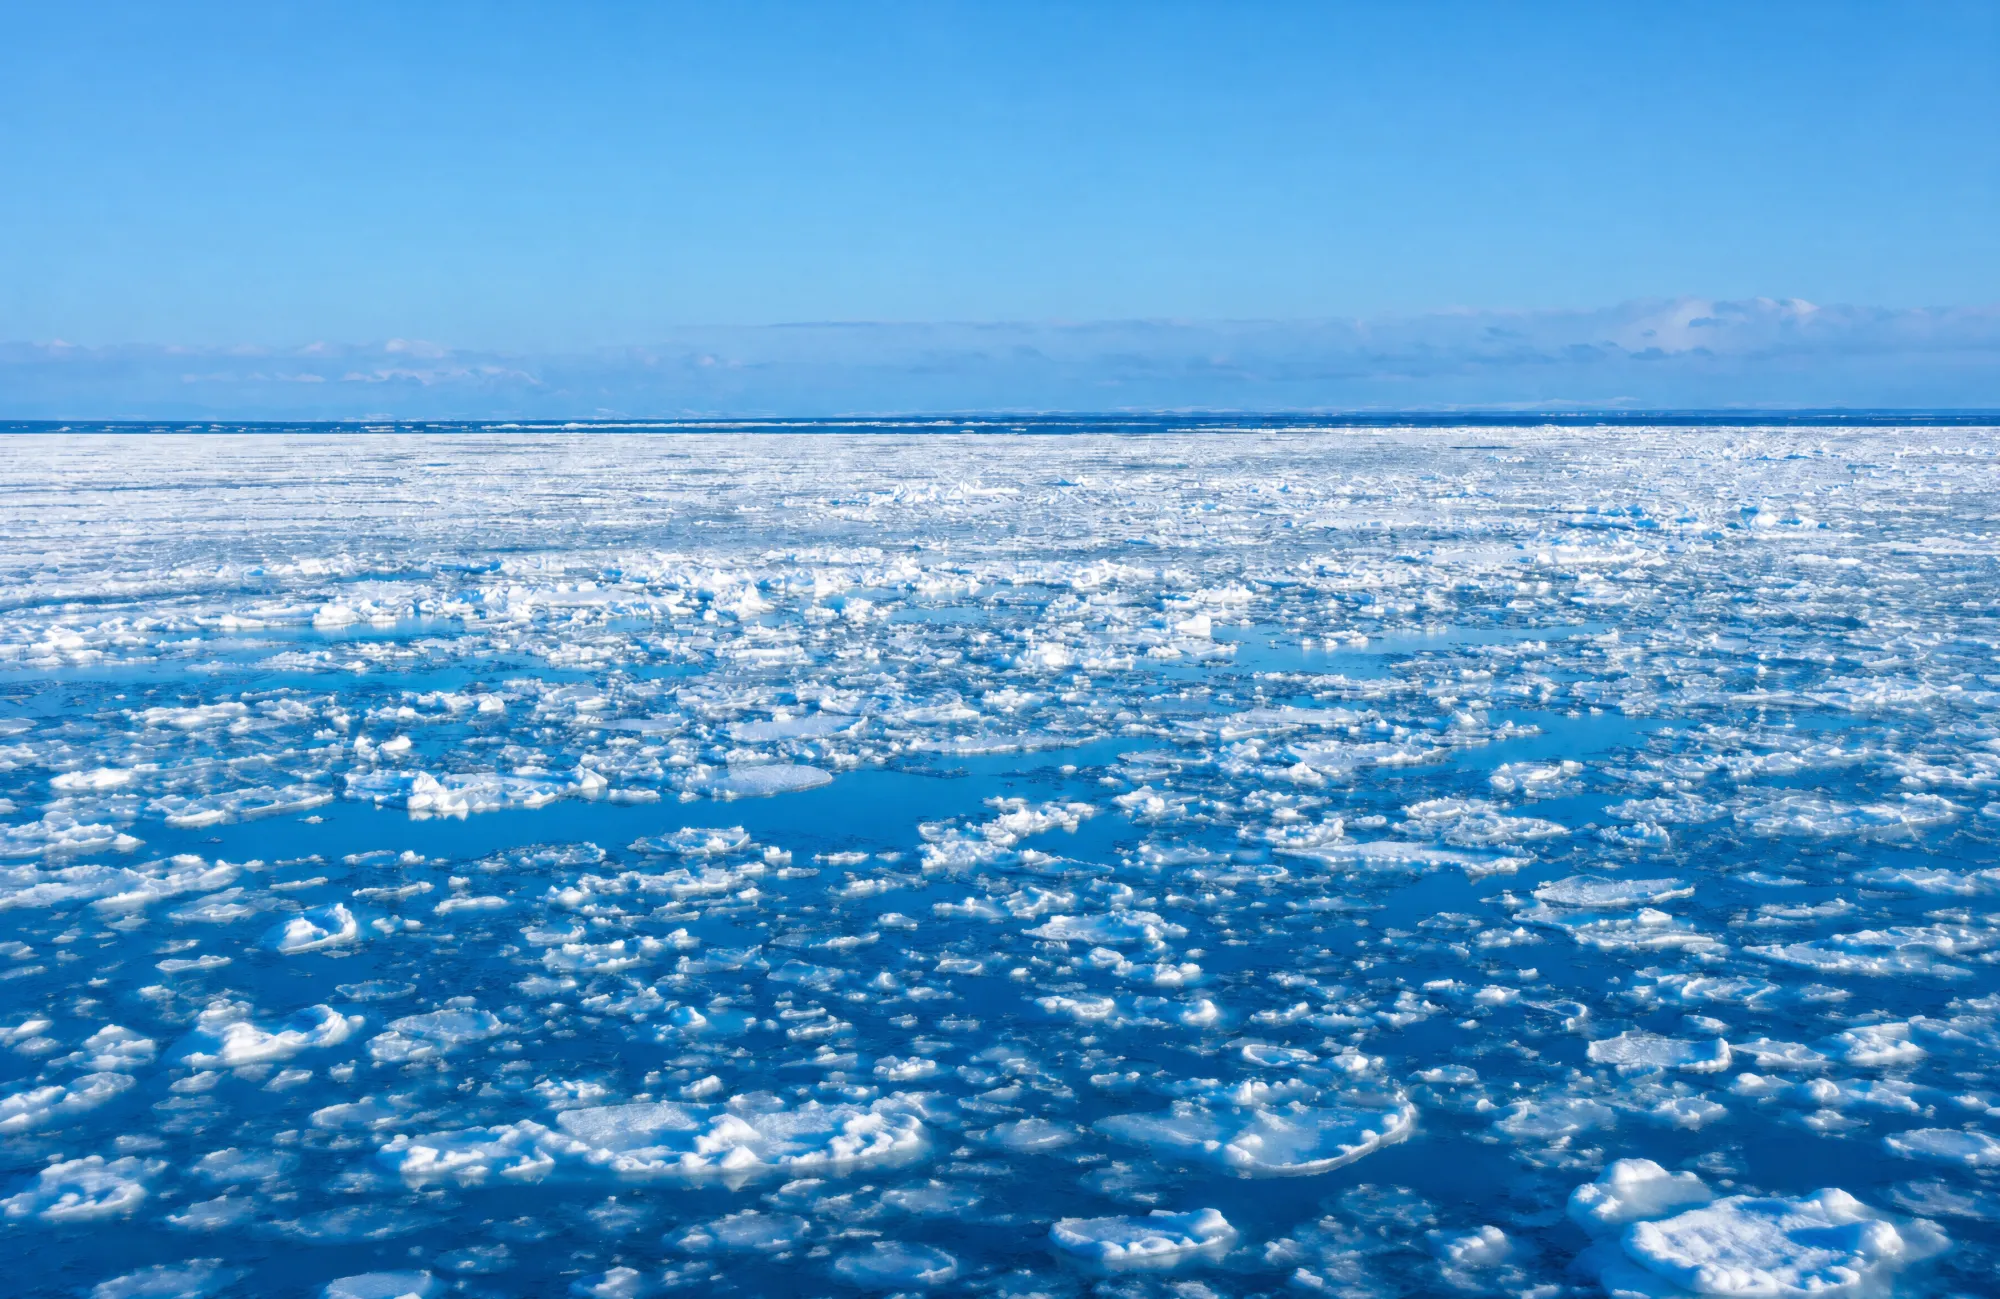
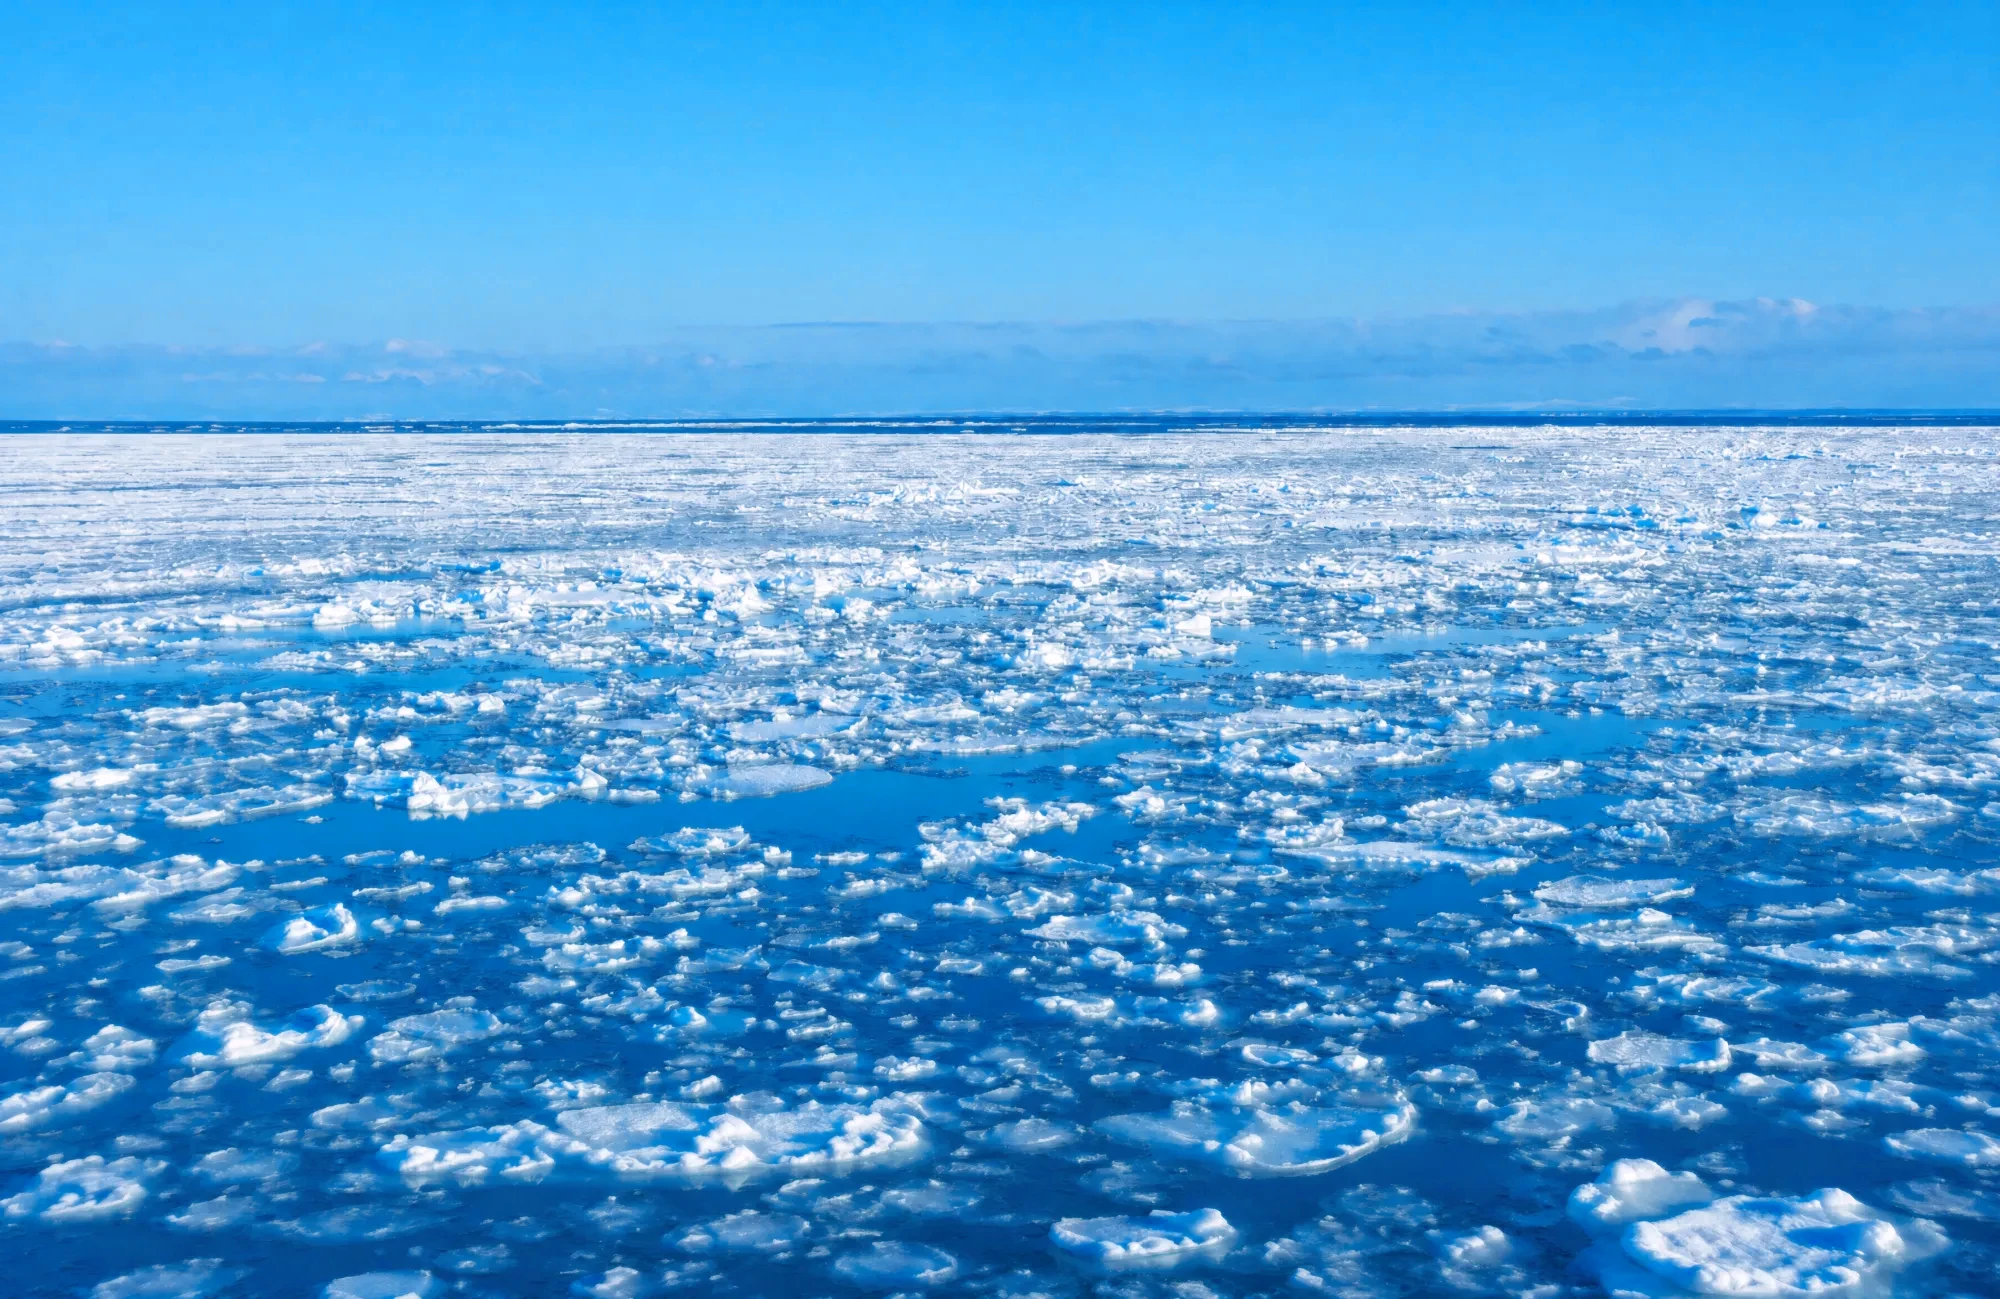
Auto-save

Changed region(s): [[0.0, 0.0, 1.0, 0.1848], [0.682, 0.3079, 1.0, 0.3387], [0.0, 0.2771, 0.093, 0.3387]]

diff --git a/abashiri/v3/components/SiteFooter.tsx b/abashiri/v3/components/SiteFooter.tsx
@@ -183,7 +183,7 @@ export const FADE_CURVES: Record<number, { name: string; note: string }> = {
    【同日 ヒデさん】パネルで 明るさ120%・影0%・影の高さ40% にして「これで変えてほしい。彩度の調整も」→ 案1 をその値にして既定に。sat＝彩度(%) */
 export const PHOTO_TONES: Record<number, { name: string; note: string; values: Record<string, number> }> = {
   0: { name: "前の暗いまま", note: "写真そのまま＋下半分に黒い影35%（2026-10-20 までの形）", values: { "footer.bright": 100, "footer.sat": 100, "footer.shade": 35, "footer.shadeH": 50, "footer.light": 0 } },
-  1: { name: "写真を明るく", note: "【既定・2026-10-20 ヒデさんの調整】写真の明るさ 120%・黒い影なし（0%）", values: { "footer.bright": 120, "footer.sat": 100, "footer.shade": 0, "footer.shadeH": 40, "footer.light": 0 } },
+  1: { name: "写真を明るく", note: "【既定】黒い影なし（0%）・写真の明るさ 100%（加工なし）。2026-10-21 写真そのものの色を元の写真に合わせたので、明るさのフィルターは外した（前は 120%）", values: { "footer.bright": 100, "footer.sat": 100, "footer.shade": 0, "footer.shadeH": 40, "footer.light": 0 } },
   2: { name: "影を海の青に", note: "下の影を黒ではなく深い海の青（Shadow_Base #005fb3）にする。暗くならずに青が深まり、文字も読める。写真も少し明るく（108%）", values: { "footer.bright": 108, "footer.sat": 100, "footer.shade": 40, "footer.shadeH": 50, "footer.light": 0 } },
   3: { name: "光を重ねる", note: "写真の上に、空の色の光（上 Brand_SkyBottom → 下 Brand_SkyTop）をスクリーンで重ねて、全体を明るく爽やかに。黒い影はごく薄く（12%）", values: { "footer.bright": 100, "footer.sat": 100, "footer.shade": 12, "footer.shadeH": 50, "footer.light": 35 } },
 };
@@ -297,7 +297,7 @@ function PhotoStage({
   /** 調整パネルから変えられる値（CSS変数）。
       高さとグラデはレイアウトに関わるので、変わった時だけ描き直す。
       curve＝グラデのパターン（FADE_CURVES の番号・2026-10-20） */
-  const [cfg, setCfg] = useState({ stageH: 120, fadeH: 72, solid: 0, padTop: 64, curve: 1, overlap: 400, tone: 1, bright: 120, sat: 100, shade: 0, shadeH: 40, light: 0 });
+  const [cfg, setCfg] = useState({ stageH: 120, fadeH: 72, solid: 0, padTop: 64, curve: 1, overlap: 400, tone: 1, bright: 100, sat: 100, shade: 0, shadeH: 40, light: 0 });
 
   useEffect(() => {
     /* このフッターが入っているスクロールの箱を探す

diff --git a/abashiri/v3/app/globals.css b/abashiri/v3/app/globals.css
@@ -165,7 +165,7 @@
   --ft-z: 0;              /* 同 フッターを上のセクションの後ろへ回す（体験のカードとボタンが手前） */
   --ft-pad-top: 64px;     /* 同 フッターの上のパディング（グラデの下〜中身）🟡 */
   --ft-tone: 1;           /* 同 写真の明るさの案（SiteFooter の PHOTO_TONES。1=写真を明るく・ヒデさんの調整値）🟡 */
-  --ft-photo-bright: 120; /* 同 写真の明るさ（%） */
+  --ft-photo-bright: 100; /* 同 写真の明るさ（%）。2026-10-21 写真そのものの色を元に合わせたので加工なし（120→100） */
   --ft-sat: 100;          /* 同 写真の彩度（%） */
   --ft-shade: 0;          /* 同 下からの影の濃さ（%・前は35） */
   --ft-shade-h: 40;       /* 同 影が下から写真のどこまでかかるか（%） */

diff --git a/abashiri/v3/components/TopTunePanel.tsx b/abashiri/v3/components/TopTunePanel.tsx
@@ -316,7 +316,7 @@ export default function TopTunePanel({
         /* 写真の明るさ（2026-10-20 ヒデさん「後ろの写真がすごく暗く見える。3案」→ 同日 パネルで調整して「これで変えてほしい」）。
            案1「写真を明るく」：明るさ120%・影なし・影の高さ40%🟡（彩度は同日足したつまみ・100%＝そのまま） */
         tone: 1,
-        bright: 120,
+        bright: 100, /* 2026-10-21 写真そのものの色を元の写真に合わせた（フィルター加工はしない・ヒデさん）ので 120→76→100 */
         sat: 100,
         shade: 0,
         shadeH: 40,

diff --git a/abashiri/v3/components/MobileTop.tsx b/abashiri/v3/components/MobileTop.tsx
@@ -308,6 +308,7 @@ export default function MobileTop() {
           alt=""
           className="absolute inset-0 h-full w-full object-cover"
         />
+
         <div className="pointer-events-none absolute inset-x-0 top-0 h-32 bg-gradient-to-b from-black/15 to-transparent" />
 
         <div className="relative z-10 flex flex-1 flex-col">
